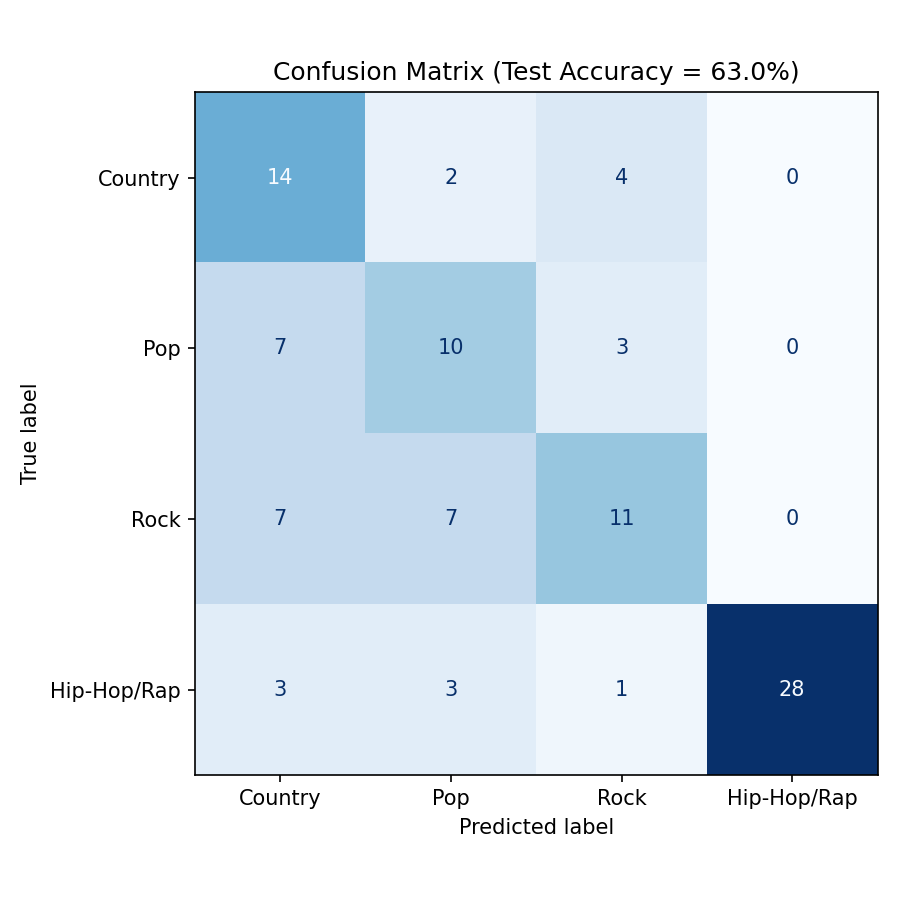
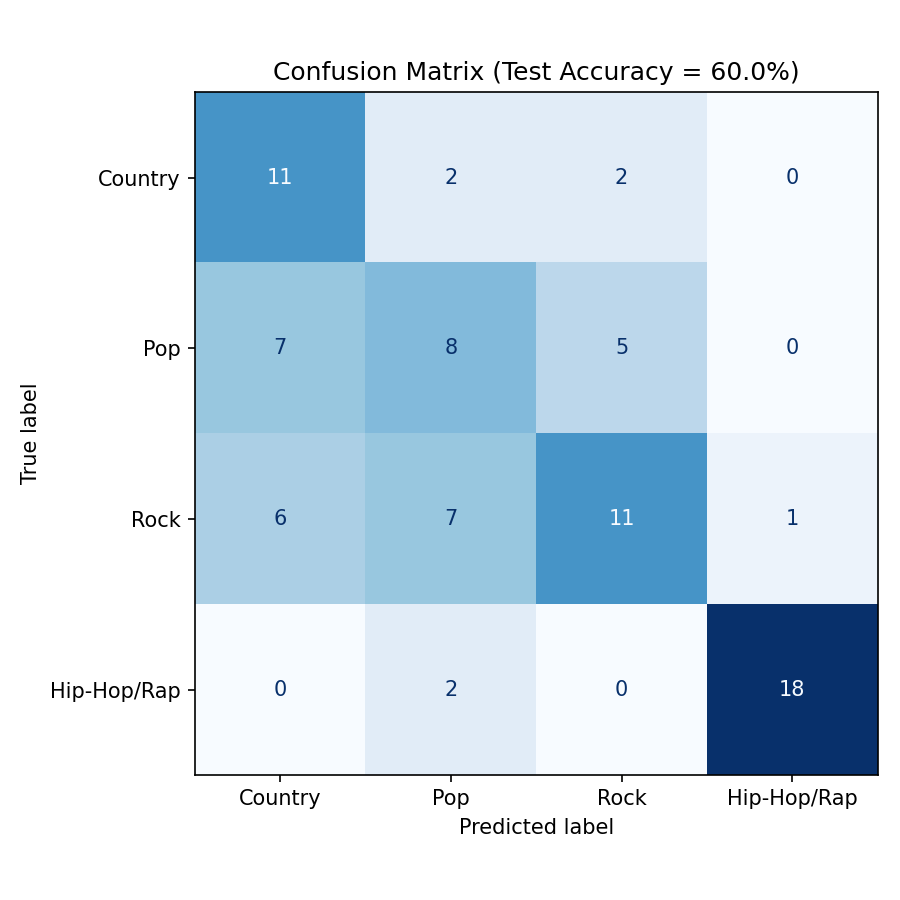
changed values to 320/80 split instead of 300/100

diff --git a/SCRIPTS/06_train_model.py b/SCRIPTS/06_train_model.py
@@ -100,7 +100,7 @@ def load_data():
 # Artist-grouped train/test split
 # --------------------------------------------------------------------------
 
-def artist_grouped_split(df, test_size=0.25, random_state=RANDOM_SEED):
+def artist_grouped_split(df, test_size=0.20, random_state=RANDOM_SEED):
     # GroupShuffleSplit keeps every song from a given artist on the same
     # side of the split, so the model is tested on artists it has never
     # seen lyrics from -- a much harder (and more honest) test than a
@@ -280,7 +280,7 @@ def top_words_per_genre(vectorizer, clf, top_n=15):
 # --------------------------------------------------------------------------
 # Deployment model: refit on ALL labeled data (train + test) using the
 # C chosen by GroupKFold CV, so the live website uses every labeled example
-# instead of holding 25% out. The held-out test split above is only for
+# instead of holding 20% out. The held-out test split above is only for
 # honest accuracy/F1 reporting, not for what actually gets served.
 # --------------------------------------------------------------------------
 
